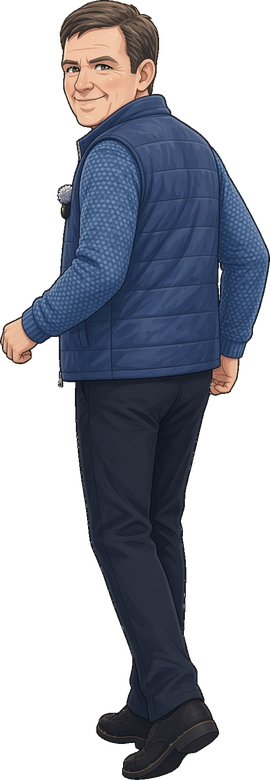
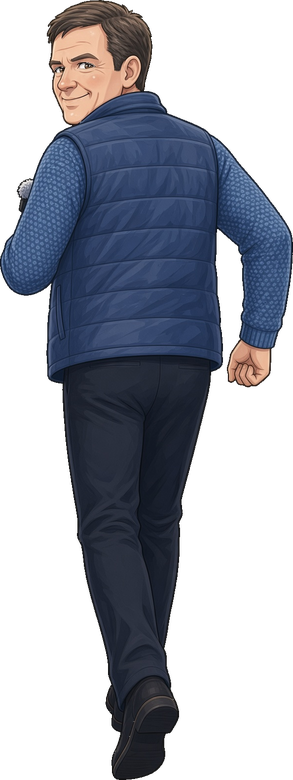
Turn Gary's run so he faces down the street.
The body is seen from behind, with a short step, and only the head looks back.

diff --git a/game.js b/game.js
@@ -52,7 +52,7 @@ function loadGary(file) {
   img.src = file;
   return img;
 }
-const imgRun = [loadGary('gary_run1.png?v=2'), loadGary('gary_run2.png?v=2')];
+const imgRun = [loadGary('gary_run1.png?v=3'), loadGary('gary_run2.png?v=3')];
 const imgCheer = loadGary('gary_cheer.png?v=1');
 const imgCrash = loadGary('gary_crash.png?v=1');
 let runFrame = 0, runTimer = 0;

diff --git a/index-new.html b/index-new.html
@@ -73,6 +73,6 @@
   </div>
 
 <script src="game-data.js?v=6"></script>
-<script src="game.js?v=17"></script>
+<script src="game.js?v=18"></script>
 </body>
 </html>

diff --git a/index-new.html.html b/index-new.html.html
@@ -73,6 +73,6 @@
   </div>
 
 <script src="game-data.js?v=6"></script>
-<script src="game.js?v=17"></script>
+<script src="game.js?v=18"></script>
 </body>
 </html>

diff --git a/index.html b/index.html
@@ -73,6 +73,6 @@
   </div>
 
 <script src="game-data.js?v=6"></script>
-<script src="game.js?v=17"></script>
+<script src="game.js?v=18"></script>
 </body>
 </html>
